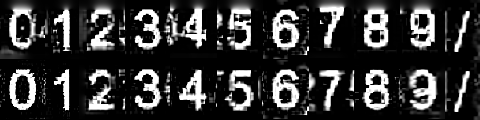
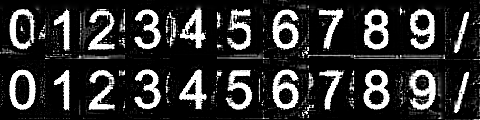
feat(vision): base sans shapes learned from a 75-125% UI sweep; the minimum-UI population total now reads

diff --git a/ROADMAP.md b/ROADMAP.md
@@ -10,14 +10,14 @@ In this order; each step is its own piece of work (and session), tracked against
 
     | Fixture group | Split matcher | Learned, before the accuracy fixes | Learned matcher now |
     |---|---|---|---|
-    | Screenshots 1080p | 211 / 13 / 0 | 204 / 5 / 18 | 222 / 0 / 2 |
+    | Screenshots 1080p | 211 / 13 / 0 | 204 / 5 / 18 | 224 / 0 / 0 |
     | Screenshots 1366x768 | 14 / 0 / 0 | 14 / 0 / 0 | 14 / 0 / 0 |
     | Video stills | 625 / 1 / 0 | 580 / 6 / 40 | 622 / 0 / 4 |
     | Game 1 | 107 / 2 / 0 | 108 / 0 / 1 | 109 / 0 / 0 |
     | Game 2 | 67 / 0 / 0 | 66 / 0 / 1 | 67 / 0 / 0 |
     | Game 3 (75% UI) | 37 / 19 / 0 | 54 / 0 / 2 | 56 / 0 / 0 |
     | Anne_HK playback (7 frames) | 98 / 0 / 0 | not measured | 98 / 0 / 0 |
-    | Total | 1159 / 35 / 0 | 1026 / 11 / 62 | 1188 / 0 / 6 |
+    | Total | 1159 / 35 / 0 | 1026 / 11 / 62 | 1190 / 0 / 4 |
     | Reference only, not in the total: 1200p/1440p screenshots (old, from the web) | 56 / 0 / 0 | 34 / 4 / 18 | 44 / 0 / 12 |
     | Time per 1080p frame (`vision_bench`) | 22.8 ms (23.5 ms on 2026-11-03) | 52 ms (167 ms on the first run) | 20.9 ms (63 ms on 2026-11-03) |
 
@@ -28,7 +28,7 @@ In this order; each step is its own piece of work (and session), tracked against
     Weak spots before it can become the default:
     *   **Video stills**: the population villager count over its icon art (36, 60) is unread in 2 frames. Compression lifts the black outline above the outlined-text mask's threshold.
     *   ~~**Anne_HK**~~ (done 2026-11-09): the idle count on the red bell is white on a black outline, not white blended into the red, so most of its ink was left out of the comparison (10 read as 16, 7 and 103 unread). It is now read as outlined text with the villager-count shapes. "Food villagers 42 read as 12" was a wrong label: the panel shows 12 (wood 7 + food 12 = 19 villagers), and 42 is the split matcher's misread, now listed as its known failure. Training the villager-count shapes on the bell digits as well brought no gain and left population villagers 30 unread on three frames of the new recording, so `learn_shapes` only calibrates the bell's pen height, and the committed shapes were not regenerated. Only 1080p at 100% UI has been checked on the bell.
-    *   **Sans-serif fixtures**: the population total of `aoe2_16x9_min_sans` is unread (the split matcher misreads it).
+    *   ~~**Sans-serif fixtures**~~ (done 2026-11-09): the population total of `aoe2_16x9_min_sans` now reads correctly, after `base_sans` was relearned from a UI sweep (75-125% in steps of 5, Anti-Alias Text off as well at 75, 100 and 125%) instead of 100% alone. The sweep shows 104/160, not that fixture's 64/75, so the fixture stays independent of the training data. The `anne_hk_sans` set still comes from two 100% screenshots.
     *   ~~**CPU**~~ (done 2026-11-07): 20.9 ms per 1080p frame against the split matcher's 22.8 ms (same run), down from 63 ms, with every fixture reading unchanged. The `--dump` of `vision_bench` matched on all 1056 fields after each step. In stages: observation 5.1 -> 1.4 ms (sliding-histogram percentile, inpainting without copies), pen height 11.4 -> 2.4 (gains vectorised over rows of pens; the idle count skipped while its icon shows no idle villagers), chains 10.6 -> 4.6 (no per-cell allocations), re-scoring 16.8 -> 8.0 and confidence 13.6 -> 4.0 (a glyph's alternatives costed against the canvas without it; refinement re-tries only glyphs a move reaches; no confidence work once a field is doubtful). The population total remains the dearest field (5.7 ms). In the capture loop a field whose pixels are unchanged keeps its last reading: on the recorded frames of game `telemetry_20261101_110257` (302 frames, ~5 s apart) 17.9 -> 11.5 ms per frame, with identical results. At 4 FPS more fields are unchanged between frames, so live it should be lower still (not measured).
     *   **Higher resolutions**: to be measured on fresh screenshots; the old ones from the web are reference-only.
 2. **Quick replay fixes**: the cancelled final Age-up click and in-order matching of bursts of identical spends (both under "Technical Debt" below). Independent of 1.

diff --git a/DECISION_LOG.md b/DECISION_LOG.md
@@ -107,7 +107,7 @@ This log captures the high-level architectural and design decisions of the AoE2 
     *   Learned shapes generalise across sizes and settings. Shapes learned from the 100% UI alone read every other size from 75% to 125%. Shapes learned with AA on read AA off (all fields, margins within ~2). Villager counts and totals need their own shapes (the outline changes the glyph edges), but they share size rule and positions.
     *   Positions and sizes come from the layout file (`widgetui/resourcepanel.json`), so a UI mod needs only its layout and a few screenshots, not new code.
 *   **Anne_HK idle count** (2026-11-09): the digits on the red bell are measured as white over a black outline (pixels are shades of grey, not white blended into red), so they are read as outlined text, with the villager-count shapes, whatever the mod's file says about the outline width. Scoring needs no near-black test there: the color alone separates grey text from red, and the thin side of the outline stays above the near-black limit.
-*   **Limits** (2026-11-07, numbers updated 2026-11-09): 1188/1194 fixture fields against the split matcher's 1159. It has no wrong value against 35; the other 6 fields are left unread. (The enormous-font screenshots and the four 1200p/1440p screenshots from the web are reference-only since, and no longer tested.) It is at least as good on every 1080p group except the video stills (622/626 against 625/626). Games 1-3 read every field correctly, and on their recorded frames games 1 and 2 give identical CSVs. It takes 20.9 ms per 1080p frame against the split matcher's 22.8 ms (63 ms before the speed work of 2026-11-07, which changed no reading), and in the capture loop it reuses the reading of a field whose pixels are unchanged since the last frame (11.5 ms per frame on a recorded game). Higher resolutions are unmeasured until fresh screenshots are captured. Details in `ROADMAP.md`.
+*   **Limits** (2026-11-07, numbers updated 2026-11-09): 1190/1194 fixture fields against the split matcher's 1159. It has no wrong value against 35; the other 4 fields, all in compressed video stills, are left unread. (The enormous-font screenshots and the four 1200p/1440p screenshots from the web are reference-only since, and no longer tested.) It is at least as good on every 1080p group except the video stills (622/626 against 625/626). Games 1-3 read every field correctly, and on their recorded frames games 1 and 2 give identical CSVs. It takes 20.9 ms per 1080p frame against the split matcher's 22.8 ms (63 ms before the speed work of 2026-11-07, which changed no reading), and in the capture loop it reuses the reading of a field whose pixels are unchanged since the last frame (11.5 ms per frame on a recorded game). Higher resolutions are unmeasured until fresh screenshots are captured. Details in `ROADMAP.md`.
 
 ## UI Mod Support
 

diff --git a/data/digit_shapes/README.md b/data/digit_shapes/README.md
@@ -13,7 +13,7 @@ One set per font and panel layout. Anti-Alias Text on and off use the same shape
 | Set | Layout | Font | Learned from |
 |---|---|---|---|
 | `base_default` | base | default (`combined`); the "smooth" option draws the same pixels | UI sizes 75-125% in steps of 5, and both AA settings at 100% |
-| `base_sans` | base | sans-serif (`combined_sansserif`) | 100%, both AA settings |
+| `base_sans` | base | sans-serif (`combined_sansserif`) | UI sizes 75-125% in steps of 5, AA off as well at 75, 100 and 125% |
 | `anne_hk_default` | Anne_HK mod | default | 100%, both AA settings |
 | `anne_hk_smooth` | Anne_HK mod | smooth | 100%, both AA settings |
 | `anne_hk_sans` | Anne_HK mod | sans-serif | 100%, both AA settings |
@@ -49,7 +49,8 @@ cargo run --release --bin learn_shapes -- --game-dir "<Steam>/steamapps/common/A
 - `--out <dir>` writes the files somewhere else.
 
 The screenshots and their values are listed in `training.json`; they live in
-`recordings/screenshots/` (not in git). They are the release `font-screenshots-2026-11` of
+`recordings/screenshots/` (not in git). `sans_75-125_interval_5/` and the name of
+`default_75-125_interval_5/` (`75-125_interval_5/` in the zip) are newer than the release. Otherwise they are the release `font-screenshots-2026-11` of
 [chris-h-sg/aoe2-squire-data](https://github.com/chris-h-sg/aoe2-squire-data/releases/tag/font-screenshots-2026-11):
 
 ```bash
